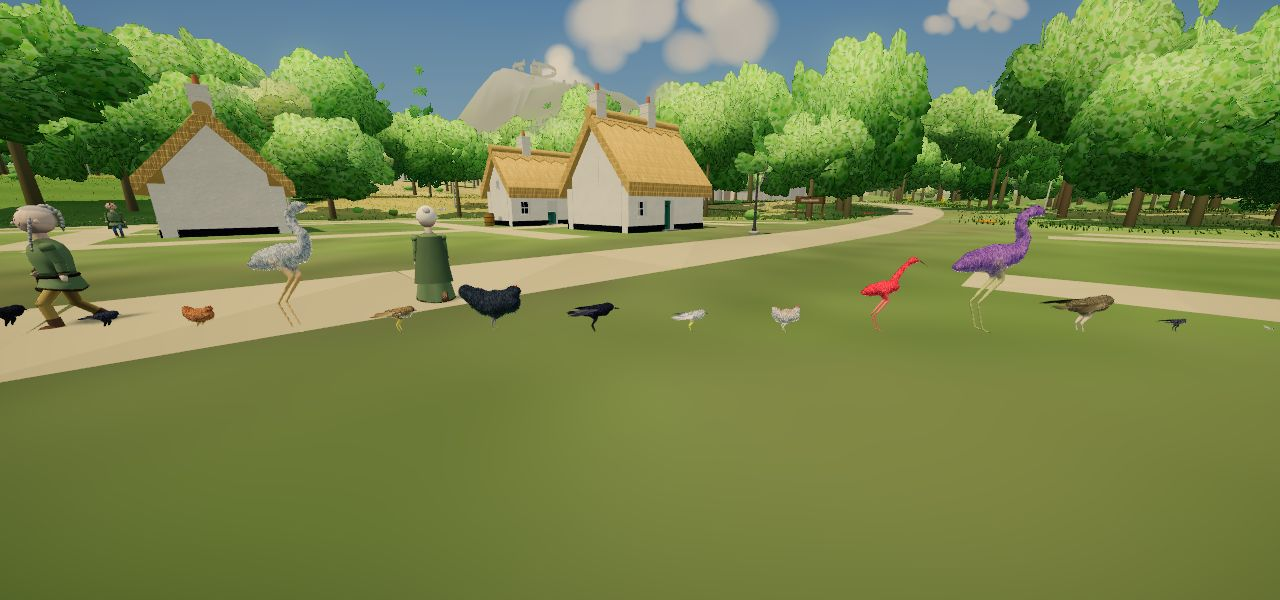
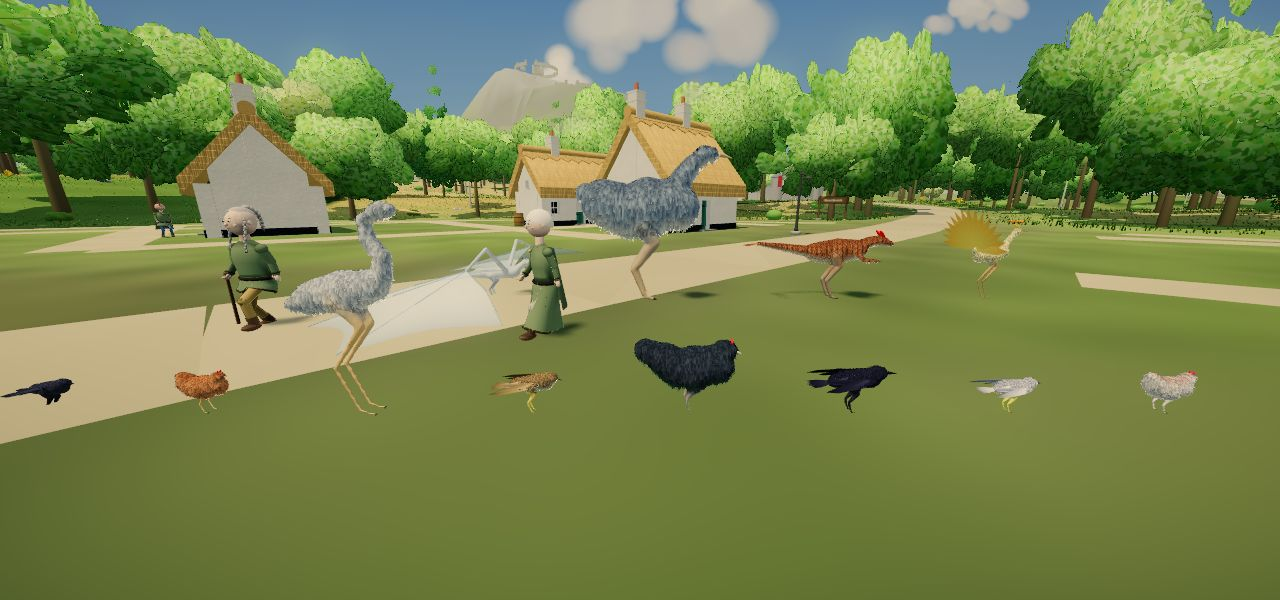
Bodies: Session 1892 — four of OG-040's strange beasts on the birds' path: the Glasswing, the Stormplume, the Redcrest, the Sunfan (L3)
Claude-Session: https://claude.ai/code/session_019eFMMpBSGA8nHUZt4rVscH

diff --git a/js/34-creatures.js b/js/34-creatures.js
@@ -369,6 +369,12 @@ BIRD['Scarlet Ibis']={len:.68,col:0xe6331f,hop:1};BIRD['Cypress Stalker']={len:1
 // faster than a bird's, so its soar runs on its own clock (beat, cycles a second; the kit flaps twice a cycle). 0.07 m from its feelers' tips
 // to its wings' trailing edge, the length the fit reads
 BIRD['Glasswing Moth']={len:.07,col:0xd9d1b8,hop:.15,beat:6};
+// Session 1892: four of OG-040's strange beasts on the same path (L3; the kit's STRANGE, Session 853), wild, at the kit's own size, as Session
+// 1852 put the five on four legs. The Glasswing (the Mark's cliffs: a glider with a long tail and glass wings, 3.4 m across) walks and soars;
+// the Stormplume (the Mark: a flightless bird 2.6 m to its crown) and the Redcrest (Aurenne's scrub: a feathered raptor that hunts in packs,
+// short clawed arms, a fanned tail) walk and run at the kit's trot, never soaring; the Sunfan (Aurenne's plains: the heron's plan at 1.15 with a
+// raised fan of 15 gold feathers) walks. Beak to tail 2.40, 2.56, 2.69 and 1.07 m, as the kit has them
+BIRD.Glasswing={len:2.4,col:0xb3bdc7,hop:1};BIRD.Stormplume={len:2.56,col:0x57616f,hop:1.5};BIRD.Redcrest={len:2.69,col:0x804524,hop:1.4};BIRD.Sunfan={len:1.07,col:0xdbb870,hop:1.2};
 function birdStandIn(len,col){const k=len/.535,parts=[],M=new THREE.Matrix4(),put=(geo,x,y,z,sx,sy,sz,rx)=>{M.makeRotationX(rx||0);
     const g=geo.index?geo.toNonIndexed():geo;g.applyMatrix4(new THREE.Matrix4().makeScale(sx,sy,sz).premultiply(M).premultiply(new THREE.Matrix4().makeTranslation(x*k,y*k,z*k)));parts.push(g);};
   put(new THREE.SphereGeometry(1,10,7),0,.17,0,.08*k,.075*k,.17*k);put(new THREE.SphereGeometry(.055*k,8,6),0,.25,.15,1,1,1);
@@ -979,7 +985,7 @@ const HC_KINDS={'Wolf':{plan:'wolf'},'Snow Wolf':{plan:'wolf',own:true},'Dire Wo
   'Wraith':{plan:'wraith',own:true,person:true,legless:true,rest:HC_WRAITH_REST},'Phantom':{plan:'phantom',own:true,person:true,legless:true,rest:HC_WRAITH_REST},
   'Wraith (failing)':{plan:'failingwraith',own:true,person:true,legless:true,rest:HC_WRAITH_REST,arms:true,float:.05}, /* S1866 — its hem is 15% longer, so it rides 5 cm higher, clear of the floor */
   'Deer':{plan:'deer',ik:true},'Hind':{plan:'deer',own:true,ik:true,bare:true},'Red Fox':{plan:'redfox'},'Brown Hare':{plan:'brownhare'},'Badger':{plan:'badger'},'Otter':{plan:'otter'},'Cow':{plan:'cow',ik:true},'Sheep':{plan:'sheep',ik:true},'Goat':{plan:'goat',ik:true},'Elderstag':{plan:'stag',ik:true},'Gatefen Boar':{plan:'gatefenboar'},'Redspine Fox':{plan:'redspinefox'},'Hollowcat':{plan:'hollowcat'},'Greenward Stoat':{plan:'stoat'},'Icehorn':{plan:'icehorn',ik:true},'Ironpine Elk':{plan:'ironpineelk',ik:true},'Craghorn Ram':{plan:'craghornram',ik:true},'Stormlynx':{plan:'stormlynx'},'Glacial Marmot':{plan:'glacialmarmot'},'Snowleap Hare':{plan:'snowhare'},'Duneskimmer':{plan:'duneskimmer',ik:true},'Terrace Ram':{plan:'terraceram',ik:true},'Sunspire Lynx':{plan:'sunspirelynx'},'Oasis Hare':{plan:'oasishare'},'Mirage Fox':{plan:'miragefox'},'Crownstag':{plan:'crownstag',ik:true},'Frostmane':{plan:'frostmane',ik:true},'Lanternfox':{plan:'lanternfox',night:true},'Thornrunner':{plan:'thornrunner'},'Stonejaw':{plan:'stonejaw'},
-  'Shark':{plan:'reefshark',fish:true},'Whale':{plan:'stormwhale',fish:true},'Dolphin':{plan:'stormswift',fish:true},'Gull':{plan:'gull',fish:true,own:true,cell:.014},'Raven':{plan:'raven',fish:true,own:true,cell:.014},'Crow':{plan:'crow',fish:true,own:true,cell:.012},'Trout':{plan:'trout',fish:true,own:true,cell:.014},'River Pike':{plan:'riverpike',fish:true,own:true,cell:.02},'Riverjaw Salmon':{plan:'riverjaw',fish:true,own:true,cell:.02},'Mire Snake':{plan:'miresnake',fish:true,own:true,cell:.016},'Lantern Beetle':{plan:'lanternbeetle',fish:true,own:true,cell:.03},'Stonecrawler':{plan:'stonecrawler',fish:true,own:true,cell:.01},'Marsh Frog':{plan:'marshfrog',fish:true,own:true,cell:.012},'Frostspine Lizard':{plan:'frostspinelizard',fish:true,own:true,cell:.01},'Icecrab':{plan:'icecrab',fish:true,own:true,cell:.02},'Saltspine Monitor':{plan:'saltspinemonitor',fish:true,own:true,cell:.008},'Spined Gekko':{plan:'spinedgekko',fish:true,own:true,cell:.01},'Amber Shellcrab':{plan:'ambershellcrab',fish:true,own:true,cell:.02},'Sand Wyrm':{plan:'sandwyrm',fish:true,own:true,cell:.01},'Hen':{plan:'hen',fish:true,own:true,cell:.012},'Great Heron':{plan:'heron',fish:true,own:true,cell:.016},'Crag Hawk':{plan:'craghawk',fish:true,own:true,cell:.014},'Capercaillie':{plan:'capercaillie',fish:true,own:true,cell:.016},'Skyraven':{plan:'skyraven',fish:true,own:true,cell:.014},'Stormshrike':{plan:'stormshrike',fish:true,own:true,cell:.014},'Tundra Grouse':{plan:'tundragrouse',fish:true,own:true,cell:.012},'Scarlet Ibis':{plan:'scarletibis',fish:true,own:true,cell:.016},'Cypress Stalker':{plan:'cypressstalker',fish:true,own:true,cell:.016},'Sunbeak Vulture':{plan:'sunbeakvulture',fish:true,own:true,cell:.016},'Cliffswift':{plan:'cliffswift',fish:true,own:true,cell:.01},'Glasswing Moth':{plan:'glasswingmoth',fish:true,own:true,cell:.014},'Slime':{plan:'slime',fish:true},'Slime (failing)':{plan:'failingslime',fish:true},'Slime (tine)':{plan:'magmaslime',fish:true},'Fire Elemental':{plan:'fireelemental',fish:true}};
+  'Shark':{plan:'reefshark',fish:true},'Whale':{plan:'stormwhale',fish:true},'Dolphin':{plan:'stormswift',fish:true},'Gull':{plan:'gull',fish:true,own:true,cell:.014},'Raven':{plan:'raven',fish:true,own:true,cell:.014},'Crow':{plan:'crow',fish:true,own:true,cell:.012},'Trout':{plan:'trout',fish:true,own:true,cell:.014},'River Pike':{plan:'riverpike',fish:true,own:true,cell:.02},'Riverjaw Salmon':{plan:'riverjaw',fish:true,own:true,cell:.02},'Mire Snake':{plan:'miresnake',fish:true,own:true,cell:.016},'Lantern Beetle':{plan:'lanternbeetle',fish:true,own:true,cell:.03},'Stonecrawler':{plan:'stonecrawler',fish:true,own:true,cell:.01},'Marsh Frog':{plan:'marshfrog',fish:true,own:true,cell:.012},'Frostspine Lizard':{plan:'frostspinelizard',fish:true,own:true,cell:.01},'Icecrab':{plan:'icecrab',fish:true,own:true,cell:.02},'Saltspine Monitor':{plan:'saltspinemonitor',fish:true,own:true,cell:.008},'Spined Gekko':{plan:'spinedgekko',fish:true,own:true,cell:.01},'Amber Shellcrab':{plan:'ambershellcrab',fish:true,own:true,cell:.02},'Sand Wyrm':{plan:'sandwyrm',fish:true,own:true,cell:.01},'Hen':{plan:'hen',fish:true,own:true,cell:.012},'Great Heron':{plan:'heron',fish:true,own:true,cell:.016},'Crag Hawk':{plan:'craghawk',fish:true,own:true,cell:.014},'Capercaillie':{plan:'capercaillie',fish:true,own:true,cell:.016},'Skyraven':{plan:'skyraven',fish:true,own:true,cell:.014},'Stormshrike':{plan:'stormshrike',fish:true,own:true,cell:.014},'Tundra Grouse':{plan:'tundragrouse',fish:true,own:true,cell:.012},'Scarlet Ibis':{plan:'scarletibis',fish:true,own:true,cell:.016},'Cypress Stalker':{plan:'cypressstalker',fish:true,own:true,cell:.016},'Sunbeak Vulture':{plan:'sunbeakvulture',fish:true,own:true,cell:.016},'Cliffswift':{plan:'cliffswift',fish:true,own:true,cell:.01},'Glasswing Moth':{plan:'glasswingmoth',fish:true,own:true,cell:.014},'Glasswing':{plan:'glasswing',fish:true,own:true,cell:.016},'Stormplume':{plan:'stormplume',fish:true,own:true,cell:.028},'Redcrest':{plan:'redcrest',fish:true,own:true,cell:.016},'Sunfan':{plan:'sunfan',fish:true,own:true,cell:.016},'Slime':{plan:'slime',fish:true},'Slime (failing)':{plan:'failingslime',fish:true},'Slime (tine)':{plan:'magmaslime',fish:true},'Fire Elemental':{plan:'fireelemental',fish:true}};
 // Session 1867 (L4, OG-073): a failing gate's skeletons, the sword's and the spear's, on the kit's failing skeleton: two more pairs of arms
 // (posed by hcArms), spurs down the back, more ribs, the bones cracked and only the cracks lit white-gold. What each holds is the game's,
 // as the steady one's; its sockets keep the plan's own gold (no K.glow), the colour of the cracks

diff --git a/docs/backlog.md b/docs/backlog.md
@@ -574,7 +574,7 @@ Michael marked all 96 images of the intake on the review page: 63 KEEP and 33 NO
 - **The Gatelands' fifteen** (OG-009): Elderstag, Gatefen Boar (roots up forgotten paths), Redspine Fox, otter, heron, badger, Hollowcat, stoat, Crag Hawk, Marsh Frog, River Pike, Stonecrawler, Mire Snake, Lantern Beetle (glows near ruins; an ingredient); a capercaillie in place of the turkey. **All fifteen are plans in the kit, Session 846** (bodies builder; `creatures.js` `GATELANDS`, `creatures-gatelands.jpg`); owed: the game, after F4: ~~the Elderstag, the Gatefen Boar, the Redspine Fox, the Hollowcat and the Greenward Stoat~~ have bodies in it since Session 1727 (renumbered from 1722; `buildAnimal`, wild, on the wolf's driver; `f4animals`; the spawn is the systems builder's), ~~the heron, the hawk and the capercaillie~~ since Session 1723 (the birds' path, their gaits by their plans'), ~~the pike~~ since Session 1724 (the trout's path), ~~the Stonecrawler and the frog~~ since Session 1731 (the land path, the kit's own trot and hop; so all fifteen have bodies), ~~the beetle~~ since Session 1730 (the snake's path, walking on the kit's six legs, 3,652 tris), ~~the snake~~ since Session 1728 (the trout's path on land, `SWIMMER`'s `land`: lying, slithering by its group, a wave's length a cycle; ~~the kit's own `strideOf` for slither a legged one's~~ — fixed at the kit, Session 1729: a wave's length a cycle); ~~the Hollowcat sitting with its forefeet together and its tail wrapped round~~ — done, Sessions 1126 and 1130 (`sitTuck`, `sitWrap`; the Sunspire Lynx too, the Stormlynx's bobtail not). ~~The heron's straight neck (the critic's question on S1723, an ostrich?)~~ — done, Session 1738: an S at rest, the kit's neck `bends`. **In the open country, Session 1769** (systems builder; `WILD_ISLE_KINDS`, `WILD_ISLE`: each island's own beside the common set by biome, weighted by the catalogue's rarity; the coats by island). Owed: the aggressive ones (the Gatefen Boar, the Icecrab, the Saltspine Monitor, the Sand Wyrm) and the River Pike and the Riverjaw Salmon, asked as DECISION #1050 (Session 1769). **The Gatefen Boar answers back, Session 1796** (#1050 A: it grazes; struck or come within 4 m of, it fights with the hostile Boar's blow and 16 health, and gives up 25 m off; forest, autumn woods and fen). ~~The River Pike~~ — **done, Session 1797** (#1050 A: one fish in two over a bed more than 3 m down, taken as the trout is, 1.2 weight, 18 gold).
 - **The Mark's fifteen** (OG-031): Icehorn (horns that moan in the wind), Ironpine Elk, Stormlynx, Skyraven, Craghorn Ram, Glacial Marmot, Stormshrike, Snowleap Hare (coat by season), Riverjaw Salmon (leaps the falls), Tundra Grouse, Icecrab; Stonefang Wolf and Frostreach Bear as reskins of the Snow Wolf and Cave Bear. **All fifteen are plans in the kit, Session 847** (bodies builder; `creatures.js` `MARK`, `creatures-mark.jpg`); owed: the game, after F4: ~~the Icehorn, the Ironpine Elk, the Craghorn Ram, the Stormlynx, the Glacial Marmot and the Snowleap Hare~~ have bodies in it since Session 1739 (`buildAnimal`, wild, on the wolf's driver; `f4animals`; `docs/prototypes/f4/f4-mark.jpg`; the spawn is the systems builder's); ~~the Skyraven, the Stormshrike and the Tundra Grouse~~ since Session 1740 (the birds' path); ~~the Riverjaw Salmon~~ since Session 1741 (the trout's path); ~~the Frostspine Lizard and the Icecrab~~ since Session 1742 (the land path); so the twelve of the fifteen that are the Mark's own have bodies; the bear and the wolf are the Cave Bear's and the Dire Wolf's (Michael's reskins, owed as coats); the Shatterback is the sea's. **In the open country, Session 1769** (systems builder; `WILD_ISLE_KINDS`, `WILD_ISLE`: each island's own beside the common set by biome, weighted by the catalogue's rarity; the coats by island). Owed: the aggressive ones (the Gatefen Boar, the Icecrab, the Saltspine Monitor, the Sand Wyrm) and the River Pike and the Riverjaw Salmon, asked as DECISION #1050 (Session 1769). **The Icecrab answers back on the Mark's coast, Session 1796** (#1050 A). ~~The Riverjaw Salmon~~ — **done, Session 1797** (#1050 A: one fish in two in the Mark's rivers, not its lakes; 1.2 weight, 18 gold).
 - **Aurenne's fifteen** (OG-030): Duneskimmer, Terrace Ram, Oasis Hare, Scarlet Ibis, Mirage Fox, Cliffswift, Amber Shellcrab (harvestable), Cypress Stalker, Glasswing Moth (an ingredient), Sunbeak Vulture, Spined Gekko; the Saltspine Monitor hostile; the Dunescorpion as the Sand Scorpion's skin; the Sand Wyrm as a set piece known by its funnels. **Fourteen are plans in the kit, Session 848** (bodies builder; `creatures.js` `AURENNE`, `creatures-aurenne.jpg`); owed: the game, after F4: ~~the Duneskimmer, the Terrace Ram, the Sunspire Lynx, the Oasis Hare and the Mirage Fox~~ have bodies in it since Session 1744 (`buildAnimal`, wild, on the wolf's driver; `f4animals`; `docs/prototypes/f4/f4-aurenne.jpg`; the spawn is the systems builder's); ~~the Scarlet Ibis, the Cypress Stalker, the Cliffswift and the Sunbeak Vulture~~ have bodies since Session 1746 (the birds' path; `f4-birds.jpg`); ~~the Saltspine Monitor, the Spined Gekko and the Amber Shellcrab~~ have bodies since Session 1747 (the land path); ~~the Glasswing Moth~~ has a body since Session 1756 (the birds' path: it walks on six legs and soars on its own wingbeat; `f4animals`); ~~the Sand Wyrm~~ has a body since Session 1757 (the snake's path at 14 m, its levels by its size; its rising and funnels are the set piece's), so all fifteen have bodies; the Dune Scorpion is the Sand Scorpion's already; ~~the Glasswing Moth~~ — done, Session 864 (a moth's glass wings in the kit), so all fifteen are plans. **In the open country, Session 1769** (systems builder; `WILD_ISLE_KINDS`, `WILD_ISLE`: each island's own beside the common set by biome, weighted by the catalogue's rarity; the coats by island). Owed: the aggressive ones (the Gatefen Boar, the Icecrab, the Saltspine Monitor, the Sand Wyrm) and the River Pike and the Riverjaw Salmon, asked as DECISION #1050 (Session 1769). **The Saltspine Monitor answers back on Aurenne's coast, Session 1796** (#1050 A); the Sand Wyrm waits for its set piece.
-- **The strange beasts** (OG-040): the Crownstag, the Mossback (a tortoise carrying a garden), the Bellthroat (its call at dusk), the Lanternfox, the Thornrunner; the Shatterhorn, the Frostmane (a pack beast), the Glasswing, the Stonejaw, the Stormplume; the Redcrest, the Sunfan, the Mineprowler, the Sailshell. Wonder without menace, mostly peaceful. A few have six legs, and that is ordinary (Michael's 9 A). **All fourteen are plans in the kit, Session 853** (bodies builder; `creatures.js` `STRANGE`, `creatures-strange.jpg`): six from Sessions 773 to 775 and eight new (the Crownstag, the Lanternfox, the Thornrunner, the Frostmane, the Glasswing, the Stonejaw, the Redcrest, the Sunfan); owed: the game, after F4: ~~the Crownstag, the Lanternfox, the Thornrunner, the Frostmane and the Stonejaw~~ have bodies in it since Session 1852 (`buildAnimal`, wild, on the wolf's driver; `f4animals`; `docs/prototypes/f4/f4-strange.jpg`; ~~the spawn is the systems builder's~~ — done, Session 1870: in their islands' tables by the catalogue's habitat and rarity, the Crownstag and the Frostmane give a deer's meat; ~~the Lanternfox's glow by night only~~ — done, Session 1853, `hcNightK`); still owed: the six-legged Shatterhorn and Mineprowler (need a driver of their own), the Mossback and the Sailshell (the shell's walk), the Bellthroat (the frog's path), the Glasswing, the Stormplume, the Redcrest and the Sunfan (the birds' path).
+- **The strange beasts** (OG-040): the Crownstag, the Mossback (a tortoise carrying a garden), the Bellthroat (its call at dusk), the Lanternfox, the Thornrunner; the Shatterhorn, the Frostmane (a pack beast), the Glasswing, the Stonejaw, the Stormplume; the Redcrest, the Sunfan, the Mineprowler, the Sailshell. Wonder without menace, mostly peaceful. A few have six legs, and that is ordinary (Michael's 9 A). **All fourteen are plans in the kit, Session 853** (bodies builder; `creatures.js` `STRANGE`, `creatures-strange.jpg`): six from Sessions 773 to 775 and eight new (the Crownstag, the Lanternfox, the Thornrunner, the Frostmane, the Glasswing, the Stonejaw, the Redcrest, the Sunfan); owed: the game, after F4: ~~the Crownstag, the Lanternfox, the Thornrunner, the Frostmane and the Stonejaw~~ have bodies in it since Session 1852 (`buildAnimal`, wild, on the wolf's driver; `f4animals`; `docs/prototypes/f4/f4-strange.jpg`; ~~the spawn is the systems builder's~~ — done, Session 1870: in their islands' tables by the catalogue's habitat and rarity, the Crownstag and the Frostmane give a deer's meat; ~~the Lanternfox's glow by night only~~ — done, Session 1853, `hcNightK`); ~~the Glasswing, the Stormplume, the Redcrest and the Sunfan (the birds' path)~~ — done, Session 1892 (`BIRD`, `HC_KINDS` in `34-creatures.js`, at the kit's own size, 1.07 to 2.69 m beak to tail; `f4animals`; their spawn is the systems builder's); still owed: the six-legged Shatterhorn and Mineprowler (need a driver of their own), the Mossback and the Sailshell (the shell's walk), the Bellthroat (the frog's path).
 - **The sea** (OG-016, OG-084, OG-031): tidecrab, moray, rays, lantern jelly, flying fish, squid, seals, dolphins, octopus, turtles; the Shatterback and the maw turtle as landmarks mistaken for rock; the gate eel and the Gate Leviathan as a sea gate's antibodies (the Mouth, the Vault of the Tide), seams glowing. **Seventeen are plans in the kit, Session 854** (bodies builder; `creatures.js` `SEA`, `creatures-sea.jpg`): the reef moray, the starweed and sailfin rays, the lantern jelly, the coastal tuna, the skyskimmer, the Stormswift (a dolphin), the drifter squid, the reef shark (~~a shark of its own, not the salmon recoloured~~ — done, Session 1528: the game's shark, Michael's A on S230, as the brief; `creatures-reefshark*.jpg`; ~~the gill bands' chequer~~ — done, Session 1530 (slits as ribbons on the grown skin, `gillSlits`); ~~owed: the game's Shark wearing it~~ — done, Session 1529: on the new look, posed by the kit's swim gait at the old tail's beat, `hcFishRig`; `f4sharks`), the grey seal, the blackcurrent eel, the gate eel and the Gate Leviathan, beside the Tidecrab, the Storm Whale (~~the game's whales wearing it~~ — done, Session 1536: on the new look, `hcWhaleRig`, the fluke's beat at a quarter stroke a second; `f4sharks`; ~~the bow-wave dolphins as the Stormswift~~ — done, Session 1537, `hcDolphinRig`), the octopus and the Shatterback; owed: the game, after F4; ~~the kelpstrider~~ — done, Session 863 (leafy fronds in the kit); ~~the pierwinkle~~ — done, Session 862 (a coiled shell in the kit); ~~the stonefish, the abyssal angler and the crimson leviathan~~ — done, Session 856; ~~turtles (a sea turtle and the maw turtle need flippers)~~ — done, Session 861 (flippers in the kit: flattened arms that stroke). ~~The ports' gulls on the kit~~ — done, Session 1595 (a `gull` plan, the raven's flier in a herring gull's colours, `SHORE`; on the new look `spawnGulls`' four wear it, `hcGullRig`, 4,252 triangles each at the game's cell; `f4sharks`, `docs/prototypes/f4/f4-gull.jpg`, `creatures-gull*.jpg`). ~~The shallows' fish schools on the kit~~ — done, Session 1599 (a `herring` plan in `SHORE`, the salmon's body slimmer and silver under a blue-green back, `saddleUp` in the kit; on the new look every school within 35 m of the eye draws it baked once and instanced, its tail swung in the shader, `hcSchools`; the old cones past it; `f4sharks`, `docs/prototypes/f4/f4-herring.jpg`, `creatures-herring.jpg`).
 - **Livestock** (OG-023, OG-035): chickens, goats, sheep, cows and bees on farms and in fields. **Prototyped as plans in the kit, Session 844** (bodies builder; `creatures.js` `LIVESTOCK`, `creatures-livestock.jpg`): the cow, the sheep, the goat and the hen build and walk; owed: the bees (not skeletal), and the game (after F4): ~~the cow, the sheep and the goat~~ in it since Session 1719 (`buildAnimal`, keyed `farm:<key>`, on the deer's legs; `f4animals`), ~~the hen~~ since Session 1720 (the birds' path, no driver; she runs at a trot and never soars), and their place on the farms (a spawn: the systems builder's, or the look builder's farm dressing); ~~breeds by island~~ — done, Session 866 (`COATS`); in the game since Session 1721 (`buildAnimal(name, key, island)`, for the common set too); ~~a cow's patches~~ — done, Session 845 (a patches pattern in the kit).
 - **Beasts of burden and wagons** (OG-046, OG-077): horse, mule, donkey, ox, camel, reindeer, yak; covered and merchant wagons, the stagecoach, supply carts on the roads. OG-077's post-rider on a horse-sized hare is the brief's licence made ordinary: one on the Gatelands' roads. **The animals are plans in the kit, Session 855** (bodies builder; `creatures.js` `BURDEN`, `creatures-burden.jpg`): the horse, the mule, the donkey, the ox, the camel, the reindeer, the highland yak and a saddled giant goat, beside the post hare (Session 773); OG-046's llama is the Frostmane and its cow the livestock's. Owed: the wagons and carts (props: the look builder's), and the game, after F4; ~~harness and packs~~ — done, Session 867 (`packs` and `harness` in the kit: the pack mule, the draught horse, the yoked ox). **The horse heavier, Session 1261** (bodies builder; S1251 found the kit's horse a thin-legged foal at the coach's size): a deeper barrel, a deep flat neck with a mane (the kit's new `mane`, a crest in its own tone), a broader head, legs a third thicker, a full tail; the draught horse's collar fitted to the grown skin. ~~the coach's team on it (a key per horse from `buildCoachLine`)~~ — done, Session 1273 (the bay and the grey on the kit's horse behind the new look, keyed `coach:<road>:<i>`, each leg bent onto the driver's hoof height, `hcLegIK`; `f4beasts`). **The wagons and carts prototyped by the concept artist, 2 Nov** (`docs/prototypes/levelup/wagons.js`, `wagons.html`; docs/concepts.md): three an island on one running gear (spoked and disc wheels, shafts, a pole, a yoke, runners), each with its team from the kit, with how far the islands differ asked as a DECISION. Michael's B on #1046 (3 Nov): each island its own three, with its own animals. ~~the coach's team by island~~ — done, Session 1825 (bodies builder: the Mark's fjord dun on the kit's horse, `COATS.mark.horse`, taken by every plan with `coatAs: 'horse'`; in the game `buildCoachBeast` gives the Mark's coach two dun horses and Aurenne's two mules, the Gatelands' the bay and the grey as before). Owed: the vehicles themselves in the game (the Mark's carved wagon and Aurenne's carpentum in place of the one coach), and oxen on a driver of their own for the ox cart.

diff --git a/docs/devlog/1892.md b/docs/devlog/1892.md
@@ -1,0 +1,43 @@
+## v80 — Session 1892 — four of the strange beasts on the birds' path: the Glasswing, the Stormplume, the Redcrest, the Sunfan (L3; OG-040)
+The run's first item. Section I holds nothing new for the bodies builder (the cloak clip on Pádraig is still only watched). L4's corrupted
+animals still wait on a rule that puts a bear, a boar, a stag or an eagle in a gate. So this session goes back to L3. Of OG-040's fourteen
+strange beasts, Session 1852 gave the five on four legs bodies in the game. Its row still owed four on the birds' path: the Glasswing, the
+Stormplume, the Redcrest and the Sunfan. All four have been plans in the kit since Session 853.
+
+**What changed** (`34-creatures.js`). Four `BIRD` rows and four `HC_KINDS` rows. Each bird is built by `buildAnimal(name, key)`, keyed
+`wild:<key>`, on the path the raven opened (Session 1710): a 264-triangle stand-in far away and the kit's own bird near, its gait read from its
+group. Each is at the kit's own size, as Session 1852 put the four-legged ones. I measured the plans in the game before setting the lengths.
+- **Glasswing** (the Mark's cliffs): a glider with a 1.1 m tail and glass wings 3.4 m across. 2.40 m beak to tail, 53 bones, 19,108 tris.
+  It walks and soars. Aloft, the kit's lift is taken back off, as for the hawks.
+- **Stormplume** (the Mark): a flightless bird, 2.56 m long and 2.58 m to its crown. 20 bones, 23,436 tris, most of it the fur's shells
+  (its cell is 0.028, coarser than the others' 0.016, which halved it from 48,468). It walks, and over 1.5 m/s runs at the kit's trot. Lifted,
+  it keeps its ground gait.
+- **Redcrest** (Aurenne's scrub): a feathered raptor with short clawed arms and a fanned tail. 2.69 m long, 1.15 m high, 32 bones,
+  23,552 tris. It walks, trots over 1.4 m/s and never soars.
+- **Sunfan** (Aurenne's plains): the heron's plan at 1.15 with a raised fan of 15 gold feathers. 1.07 m, 1.59 m high, 20 bones, 4,756 tris.
+  It walks.
+
+Nothing spawns them yet. Where they live and how many is the systems builder's (`WILD_ISLE_KINDS`, where the five four-legged ones went in
+Session 1870), as is their speed row in `42-zone-enemies.js`.
+
+### Verified (headless Chromium)
+`f4animals` 1/1, 30 of 30 checks, no retry, twice. The bird line is now eighteen. The four new birds stand in a second row 4 m behind, 3 m
+apart:
+| Bird | Bones | Triangles | Beak to tail (m) | Top (m) | Still / 0.4 m/s / 1.6 m/s / 4 m up |
+|---|---|---|---|---|---|
+| Glasswing | 53 | 19,108 | 2.397 | 1.06 | stand / walk / walk / soar |
+| Stormplume | 20 | 23,436 | 2.557 | 2.57 | stand / walk / trot / trot |
+| Redcrest | 32 | 23,552 | 2.687 | 1.15 | stand / walk / trot / trot |
+| Sunfan | 20 | 4,756 | 1.069 | 1.60 | stand / walk / walk / walk |
+
+The bones move between every pair of gaits (0.06 to 2.25). Aloft, the Glasswing's spine is within 8 cm of where it stands. The other
+fourteen birds are unchanged. The check allows these four up to 30,000 tris, against 8,000 for the small birds. `parsecheck` is clean.
+Picture: `docs/prototypes/f4/f4-birds.jpg` (the second row: the Glasswing, the Stormplume, the Redcrest, the Sunfan).
+
+### Needs eyes
+- At rest the Glasswing holds its glass wings half open and low, spread over the ground beside it (the kit's `wingFold` 0.3). A glider of
+  cliffs might rather fold them tight. That would be one number in the kit.
+- The Stormplume and the Redcrest are the biggest birds in the game, at 23,000 tris each, near what the strange beasts on four legs cost
+  (28,000 to 54,000). A herd of Stormplumes would want their stand-in sooner.
+- Still owed from OG-040: the Bellthroat (the frog's path), the Mossback and the Sailshell (a shell's walk), and the six-legged Shatterhorn
+  and Mineprowler, which need a driver of their own.
